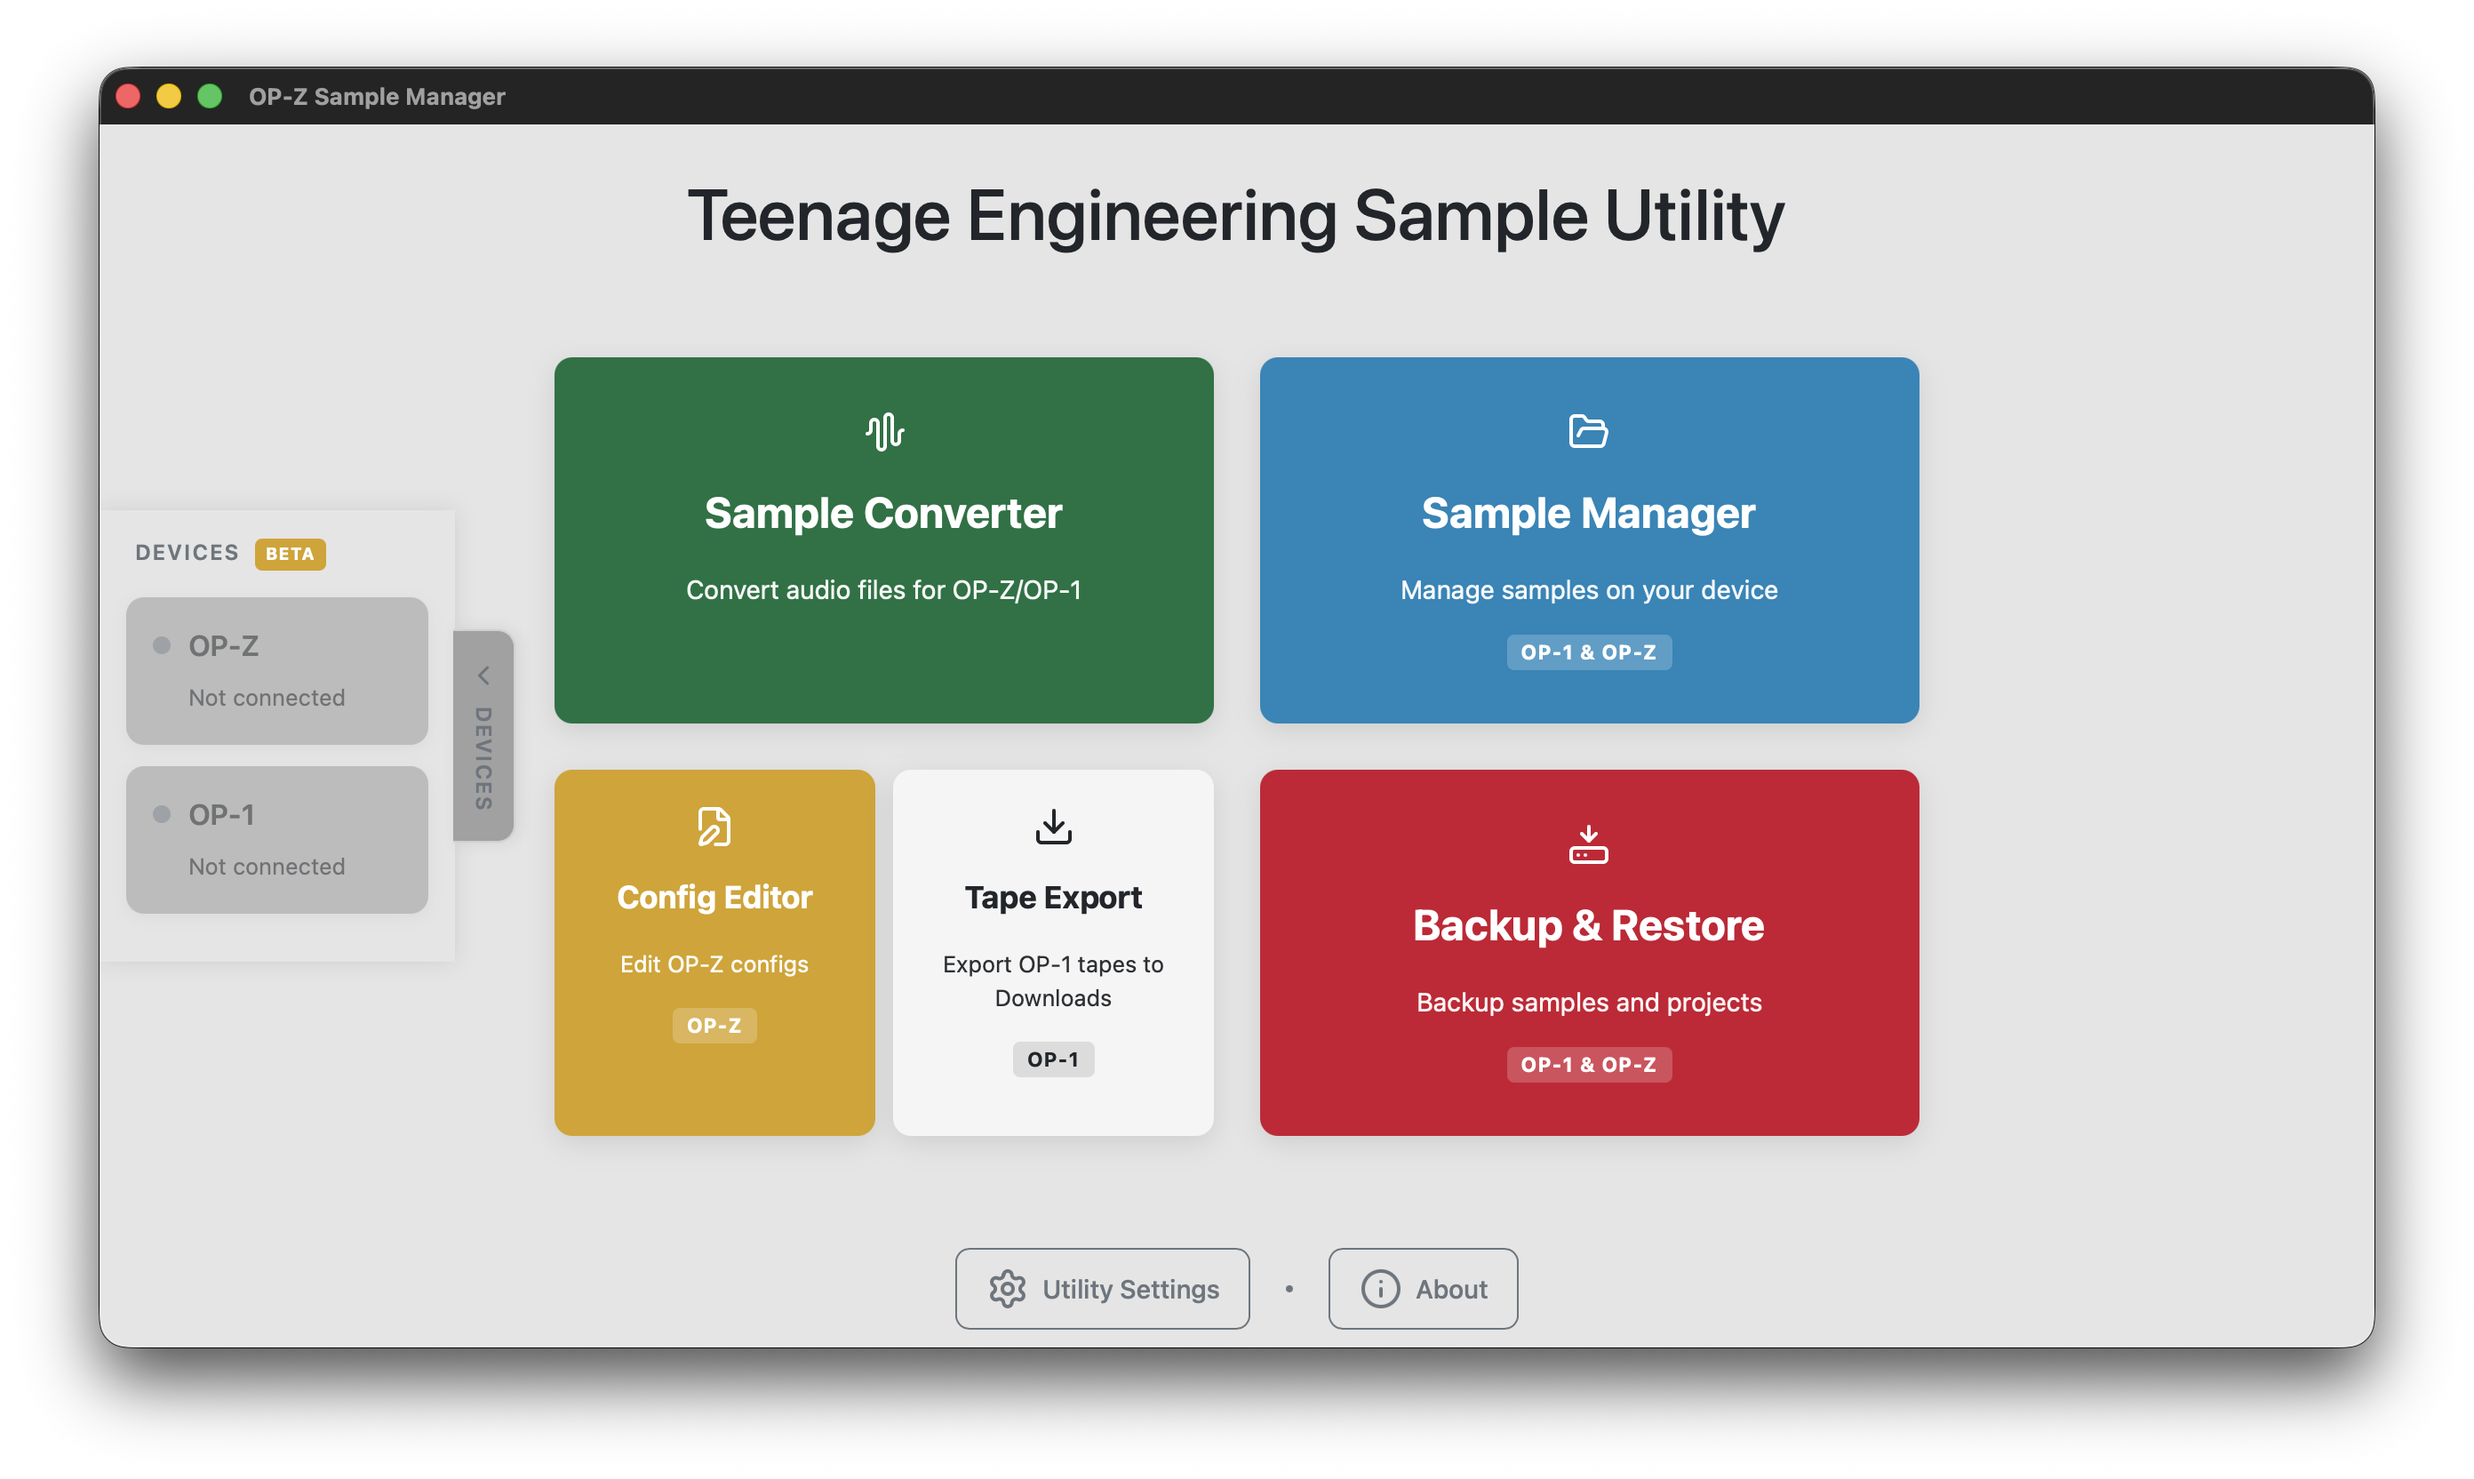
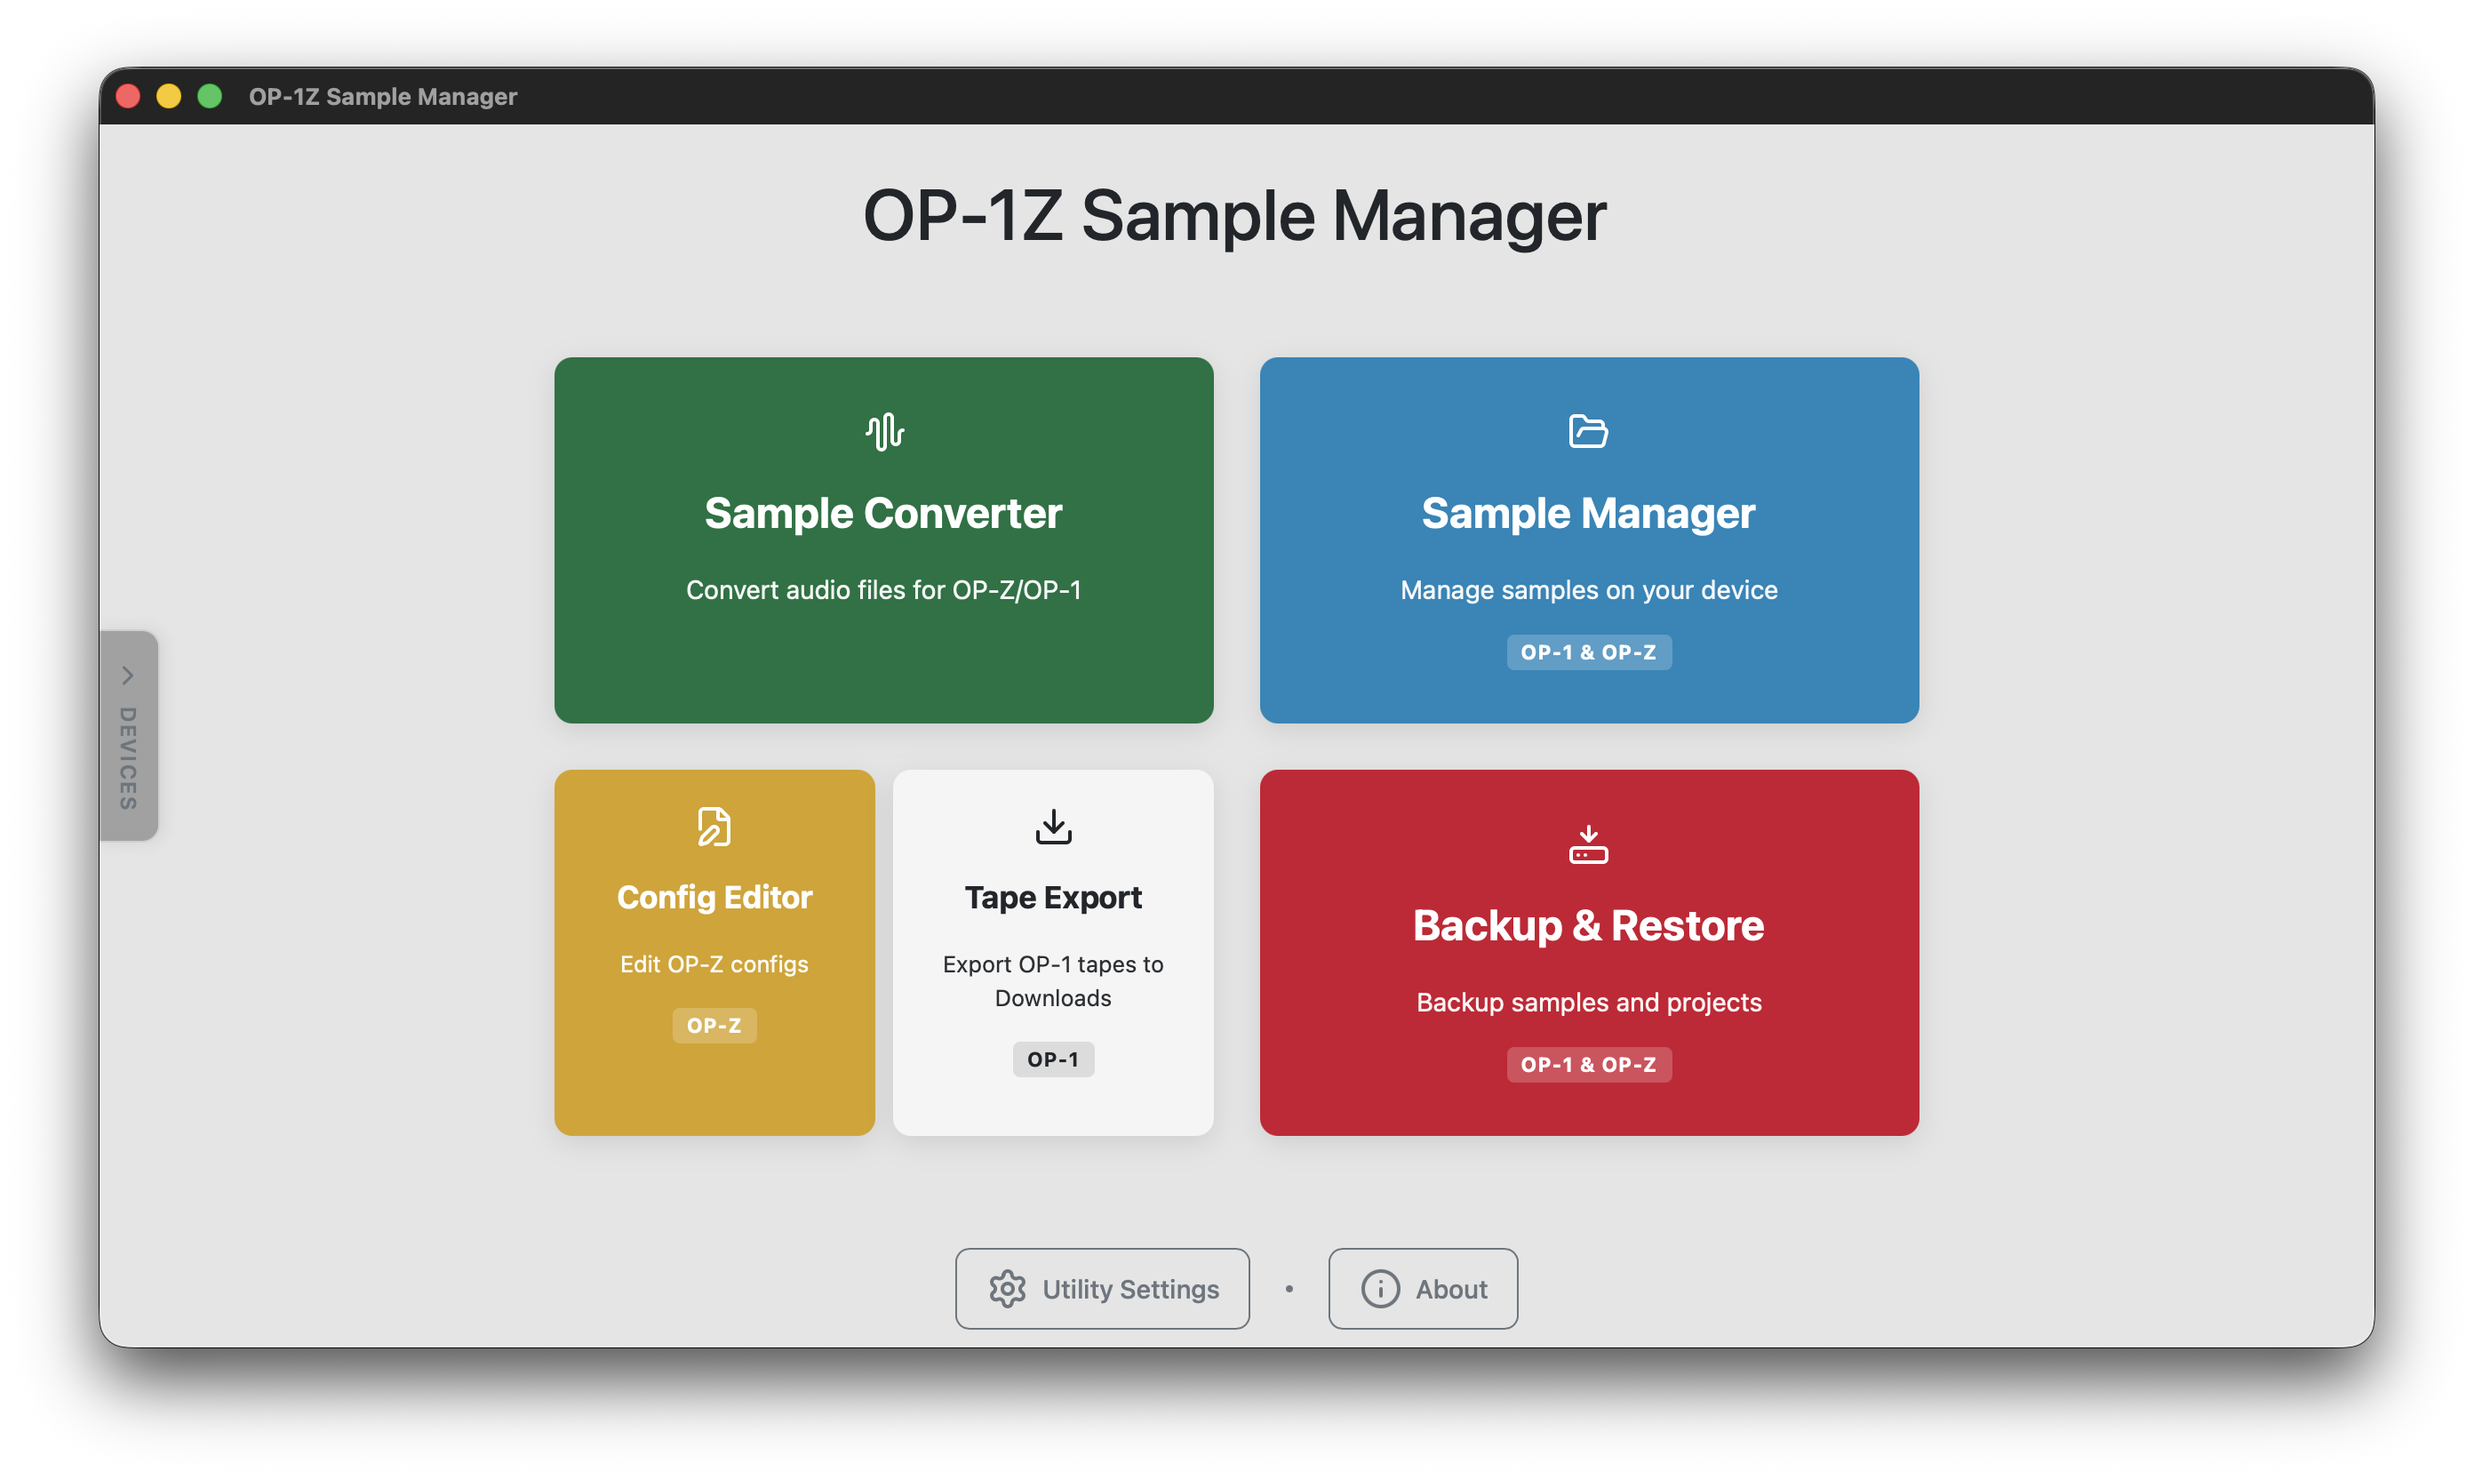
update screenshots, remove project name from specific pages

Changed region(s): [[0.0312, 0.3438, 0.2188, 0.625], [0.2812, 0.125, 0.7188, 0.1875], [0.125, 0.0625, 0.2188, 0.0938]]

diff --git a/templates/samplemanager.html b/templates/samplemanager.html
@@ -6,11 +6,11 @@
 {%endblock%}
 
 {%block title %}
-<title>OP-1Z Sample Manager</title>
+<title>Sample Manager</title>
 {%endblock%}
 
 {% block main %}
-<h1>OP-1Z Sample Manager</h1>
+<h1>Sample Manager</h1>
 <p class="page-description">Drop any audio file into a slot for it to be automatically converted to the OP-1/OP-Z audio format and placed in the correct directory.</p>
 
 <div class="header-row">

diff --git a/templates/sampleconverter.html b/templates/sampleconverter.html
@@ -6,11 +6,11 @@
 {%endblock%}
 
 {%block title %}
-<title>OP-1Z Sample Converter</title>
+<title>Sample Converter</title>
 {%endblock%}
 
 {% block main %}
-<h1>OP-1Z Sample Converter</h1>
+<h1>Sample Converter</h1>
 <p class="page-description">Convert audio files to the OP-1/OP-Z format for manual transfer to your device.</p>
 
 <div class="header-row">
